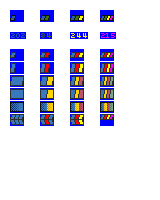
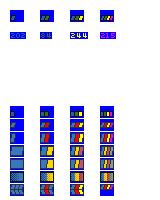
Change: tweaks to livery badges

diff --git a/src/global_constants.py b/src/global_constants.py
@@ -516,9 +516,9 @@ complements_to_company_colours = {
 # wagon liveries overlap between rosters so are in global constants (engine liveries are per-roster)
 # custom remappings of cc1/cc2, used in recolour_sprites, not used in graphics generation, so not in graphics_constants
 freight_wagon_liveries = {
-    # SWOOSH is default, and only used for cases where the livery isn't actually meaningful, e.g. randomised cars
-    "FREIGHT_SWOOSH": {
-        "colour_set_names": ["company_colour"],
+    # SWOOSH is default, and only used for cases where the livery isn't actually meaningful, e.g. no recolouring applied
+    "FREIGHT_SWOOSH_NO_LIVERY_BADGE": {
+        "colour_set_names": ["company_colour"], # CABBAGE - colour_set_names can be optionally empty?
         "use_weathering": False,
         "docs_image_input_cc": [
             ("COLOUR_BLUE", "COLOUR_BLUE"),
@@ -578,7 +578,7 @@ freight_wagon_liveries = {
             "freight_ocean_teal",
             "freight_mist",
         ],
-        "purchase_swatch_colour_set_names": ["freight_violet", "freight_cloud", "freight_teal"],
+        "purchase_swatch_colour_set_names": ["freight_violet", "freight_cloud", "freight_ocean_teal"],
         "use_weathering": True,
         "docs_image_input_cc": [
             ("COLOUR_BLUE", "COLOUR_BLUE"),
@@ -611,7 +611,7 @@ freight_wagon_liveries = {
             "freight_ochre",
             "freight_sand",
         ],
-        "purchase_swatch_colour_set_names": ["freight_sand", "freight_nightshade", "freight_ochre"],
+        "purchase_swatch_colour_set_names": ["freight_sand", "freight_oil_black", "freight_ochre"],
         "use_weathering": True,
         "docs_image_input_cc": [
             ("COLOUR_BLUE", "COLOUR_BLUE"),
@@ -625,7 +625,7 @@ freight_wagon_liveries = {
             "freight_rust", # for random weighting balance
             "freight_nightshade",
         ],
-        "purchase_swatch_colour_set_names": ["freight_grey", "freight_nightshade", "freight_rust"],
+        "purchase_swatch_colour_set_names": ["freight_grey", "freight_oil_black", "freight_rust"],
         "use_weathering": True,
         "docs_image_input_cc": [
             ("COLOUR_BLUE", "COLOUR_BLUE"),
@@ -638,7 +638,7 @@ freight_wagon_liveries = {
             "freight_ocean_teal",
             "freight_violet",
         ],
-        "purchase_swatch_colour_set_names": ["freight_violet", "freight_teal"],
+        "purchase_swatch_colour_set_names": ["freight_violet", "freight_ocean_teal"],
         "use_weathering": True,
         "docs_image_input_cc": [
             ("COLOUR_BLUE", "COLOUR_BLUE"),
@@ -715,7 +715,7 @@ freight_wagon_liveries = {
             "freight_oil_black",
             "freight_obsidian",
         ],
-        "purchase_swatch_colour_set_names": ["freight_obsidian"],
+        "purchase_swatch_colour_set_names": ["freight_oil_black"],
         "use_weathering": True,
         "docs_image_input_cc": [
             ("COLOUR_BLUE", "COLOUR_BLUE"),

diff --git a/src/train/model_type.py b/src/train/model_type.py
@@ -268,8 +268,13 @@ class ModelTypeBase(object):
 
     @property
     def cabbage_colour_mix_badges(self):
-        # note returns multiple badges, as vehicles support multiple colours
         result = []
+
+        # CABBAGE JFDI filtering of non-badged liveries, replace with a boolean flag if needed
+        if self.catalogue_entry.livery_def.livery_name in ["FREIGHT_SWOOSH_NO_LIVERY_BADGE"]:
+            return result
+
+        # note returns multiple badges, as vehicles support multiple colours
         for colour_set_name in self.catalogue_entry.livery_def.colour_set_names:
             result.append(f"freight_livery_colour_set_name/{colour_set_name}")
         return result
@@ -297,7 +302,9 @@ class ModelTypeBase(object):
         # special variant handling badges
         result.extend(self.cabbage_variant_handling_badges)
         # livery badge
-        result.append(self.cabbage_livery_badge)
+        # CABBAGE JFDI filtering of non-badged liveries, replace with a boolean flag if needed
+        if self.catalogue_entry.livery_def.livery_name not in ["FREIGHT_SWOOSH_NO_LIVERY_BADGE"]:
+            result.append(self.cabbage_livery_badge)
         if self.role_badge is not None:
             result.append(self.role_badge)
         # badge for handling vehicle_family
@@ -3531,7 +3538,7 @@ class CabooseCarUnit(CarModelTypeBase):
     Caboose, brake van etc - no gameplay purpose, just eye candy.
     """
 
-    liveries = ["FREIGHT_SWOOSH"]
+    liveries = ["FREIGHT_SWOOSH_NO_LIVERY_BADGE"]
 
     model_id_root = "caboose_car"
 
@@ -4254,7 +4261,7 @@ class FarmProductsBoxCarBase(CarModelTypeBase):
     """
 
     # company colour not used on these wagons, so set SWOOSH as JFDI
-    liveries = ["FREIGHT_SWOOSH"]
+    liveries = ["FREIGHT_SWOOSH_NO_LIVERY_BADGE"]
 
     variant_group_id_root = "wagon_group_farm_product_box_cars"
 
@@ -4337,7 +4344,7 @@ class FarmProductsHopperCarBase(CarModelTypeBase):
     """
 
     # company colour not used on these wagons, so use SWOOSH as JFDI
-    liveries = ["FREIGHT_SWOOSH"]
+    liveries = ["FREIGHT_SWOOSH_NO_LIVERY_BADGE"]
 
     variant_group_id_root = "wagon_group_farm_product_hopper_cars"
 
@@ -4794,7 +4801,7 @@ class GasTankCarBase(CarModelTypeBase):
     Specialist tank cars for gases, e.g. Oxygen, Chlorine, Ammonia, Propylene etc.
     """
 
-    liveries = ["FREIGHT_SWOOSH"]
+    liveries = ["FREIGHT_SWOOSH_NO_LIVERY_BADGE"]
 
     def __init__(self, **kwargs):
         # tank cars are unrealistically autorefittable, and at no cost
@@ -5250,7 +5257,7 @@ class IntermodalCarBase(CarModelTypeBase):
     """
 
     # !! as of April 2023, company colour isn't used for default intermodal sprite, so use SWOOSH as JFDI
-    liveries = ["FREIGHT_SWOOSH"]
+    liveries = ["FREIGHT_SWOOSH_NO_LIVERY_BADGE"]
 
     def __init__(self, **kwargs):
         super().__init__(**kwargs)
